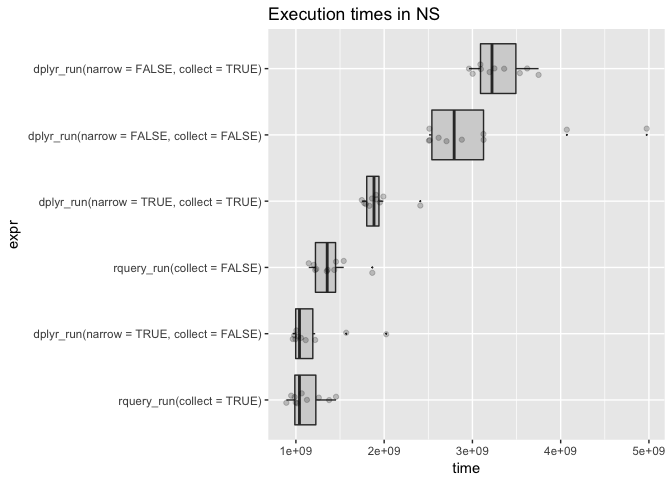
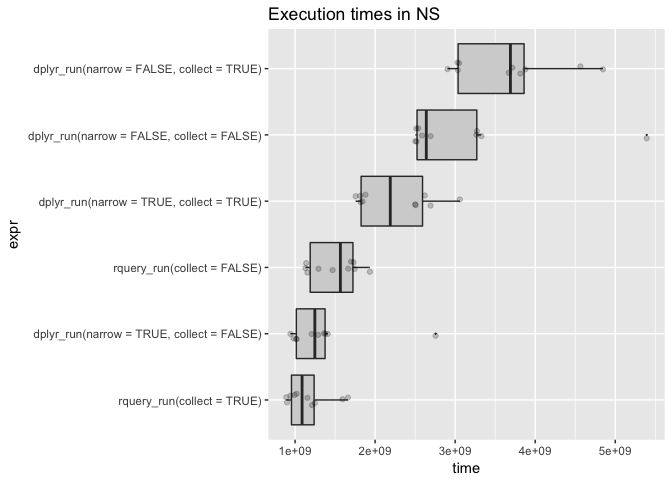
run stand-alone dplyr example (oddly enough need rquery to load the example, dplyr running Spark out of memory).

diff --git a/extras/PerfTest.md b/extras/PerfTest.md
@@ -3,53 +3,32 @@ PerfTest
 2017-12-16
 
 <!-- PerfTest.md is generated from PerfTest.Rmd. Please edit that file -->
-Set up experiment:
-
-``` r
-library("microbenchmark")
-suppressPackageStartupMessages(library("dplyr"))
-library("rquery")
-
-my_db <- sparklyr::spark_connect(version='2.2.0', 
-                                 master = "local")
-
-nSubj <- 100000
-nIrrelCol <- 1000
-dL <- data.frame(subjectID = sort(rep(seq_len(nSubj),2)),
-                 surveyCategory = c(
-                   'withdrawal behavior',
-                   'positive re-framing'),
-                 stringsAsFactors = FALSE)
-dL$assessmentTotal <- sample.int(10, nrow(dL), replace = TRUE)
-for(i in seq_len(nIrrelCol)) {
-  ni <- paste("irrelevantCol", sprintf("%07g", i), sep = "_")
-  dL[[ni]] <- sample(letters, size = nrow(dL), replace = TRUE)
-}
-
-d <- rquery::dbi_copy_to(my_db, 'd',
-                 dL,
-                 temporary = TRUE, 
-                 overwrite = FALSE)
-dL <- NULL
-
-# copy to Parquet to simulate large external data source
-dT <- dplyr::tbl(my_db, d$table_name)
-sparklyr::spark_write_parquet(dT, "perf_tmp", mode = 'overwrite')
-dplyr::db_drop_table(my_db, d$table_name)
-```
-
-    ## [1] 0
-
-``` r
-dT <- NULL
-d <- NULL
-
-# build new refs
-dT <- sparklyr::spark_read_parquet(my_db, 'dparq', "perf_tmp", memory = FALSE)
-d <- rquery::dbi_table(my_db, 'dparq')
-```
-
 Define and demonstrate pipelines:
+
+``` r
+DBI::dbGetQuery(my_db, paste("SELECT COUNT(1) FROM", d$table_name))
+```
+
+    ##   count(1)
+    ## 1    2e+05
+
+``` r
+length(column_names(d))
+```
+
+    ## [1] 1003
+
+``` r
+sparklyr::sdf_nrow(dT)
+```
+
+    ## [1] 2e+05
+
+``` r
+sparklyr::sdf_ncol(dT)
+```
+
+    ## [1] 1003
 
 ``` r
 scale <- 0.237
@@ -115,11 +94,11 @@ head(rquery_run(collect=TRUE))
 
     ##   subjectID           diagnosis probability
     ## 1         1 positive re-framing   0.7207128
-    ## 2         2 positive re-framing   0.8401037
-    ## 3         3 withdrawal behavior   0.8056518
-    ## 4         4 withdrawal behavior   0.5589742
-    ## 5         5 positive re-framing   0.5589742
-    ## 6         6 positive re-framing   0.6706221
+    ## 2         2 withdrawal behavior   0.7207128
+    ## 3         3 withdrawal behavior   0.8694381
+    ## 4         4 withdrawal behavior   0.6163301
+    ## 5         5 withdrawal behavior   0.5589742
+    ## 6         6 withdrawal behavior   0.5000000
 
 ``` r
 dR <- rquery_run(collect=FALSE) 
@@ -128,12 +107,12 @@ DBI::dbGetQuery(my_db,
 ```
 
     ##   subjectID           diagnosis probability
-    ## 1     23266 withdrawal behavior   0.5589742
-    ## 2     23267 withdrawal behavior   0.5000000
-    ## 3     23268 withdrawal behavior   0.5000000
-    ## 4     23269 withdrawal behavior   0.6163301
-    ## 5     23270 withdrawal behavior   0.8694381
-    ## 6     23271 withdrawal behavior   0.6163301
+    ## 1         1 positive re-framing   0.7207128
+    ## 2         2 withdrawal behavior   0.7207128
+    ## 3         3 withdrawal behavior   0.8694381
+    ## 4         4 withdrawal behavior   0.6163301
+    ## 5         5 withdrawal behavior   0.5589742
+    ## 6         6 withdrawal behavior   0.5000000
 
 ``` r
 head(dplyr_run(narrow=FALSE, collect=TRUE))
@@ -143,11 +122,11 @@ head(dplyr_run(narrow=FALSE, collect=TRUE))
     ##   subjectID diagnosis           probability
     ##       <int> <chr>                     <dbl>
     ## 1         1 positive re-framing       0.721
-    ## 2         2 positive re-framing       0.840
-    ## 3         3 withdrawal behavior       0.806
-    ## 4         4 withdrawal behavior       0.559
-    ## 5         5 positive re-framing       0.559
-    ## 6         6 positive re-framing       0.671
+    ## 2         2 withdrawal behavior       0.721
+    ## 3         3 withdrawal behavior       0.869
+    ## 4         4 withdrawal behavior       0.616
+    ## 5         5 withdrawal behavior       0.559
+    ## 6         6 withdrawal behavior       0.500
 
 ``` r
 head(dplyr_run(narrow=FALSE, collect=FALSE))
@@ -159,11 +138,11 @@ head(dplyr_run(narrow=FALSE, collect=FALSE))
     ##   subjectID diagnosis           probability
     ##       <int> <chr>                     <dbl>
     ## 1         1 positive re-framing       0.721
-    ## 2         2 positive re-framing       0.840
-    ## 3         3 withdrawal behavior       0.806
-    ## 4         4 withdrawal behavior       0.559
-    ## 5         5 positive re-framing       0.559
-    ## 6         6 positive re-framing       0.671
+    ## 2         2 withdrawal behavior       0.721
+    ## 3         3 withdrawal behavior       0.869
+    ## 4         4 withdrawal behavior       0.616
+    ## 5         5 withdrawal behavior       0.559
+    ## 6         6 withdrawal behavior       0.500
 
 ``` r
 head(dplyr_run(narrow=TRUE, collect=TRUE))
@@ -173,11 +152,11 @@ head(dplyr_run(narrow=TRUE, collect=TRUE))
     ##   subjectID diagnosis           probability
     ##       <int> <chr>                     <dbl>
     ## 1         1 positive re-framing       0.721
-    ## 2         2 positive re-framing       0.840
-    ## 3         3 withdrawal behavior       0.806
-    ## 4         4 withdrawal behavior       0.559
-    ## 5         5 positive re-framing       0.559
-    ## 6         6 positive re-framing       0.671
+    ## 2         2 withdrawal behavior       0.721
+    ## 3         3 withdrawal behavior       0.869
+    ## 4         4 withdrawal behavior       0.616
+    ## 5         5 withdrawal behavior       0.559
+    ## 6         6 withdrawal behavior       0.500
 
 ``` r
 head(dplyr_run(narrow=TRUE, collect=FALSE))
@@ -189,11 +168,11 @@ head(dplyr_run(narrow=TRUE, collect=FALSE))
     ##   subjectID diagnosis           probability
     ##       <int> <chr>                     <dbl>
     ## 1         1 positive re-framing       0.721
-    ## 2         2 positive re-framing       0.840
-    ## 3         3 withdrawal behavior       0.806
-    ## 4         4 withdrawal behavior       0.559
-    ## 5         5 positive re-framing       0.559
-    ## 6         6 positive re-framing       0.671
+    ## 2         2 withdrawal behavior       0.721
+    ## 3         3 withdrawal behavior       0.869
+    ## 4         4 withdrawal behavior       0.616
+    ## 5         5 withdrawal behavior       0.559
+    ## 6         6 withdrawal behavior       0.500
 
 Get timings:
 
@@ -216,19 +195,19 @@ print(timings)
 
     ## Unit: milliseconds
     ##                                        expr       min        lq     mean
-    ##                  rquery_run(collect = TRUE)  891.6546  984.7117 1111.720
-    ##   dplyr_run(narrow = FALSE, collect = TRUE) 2961.3765 3090.4798 3286.134
-    ##    dplyr_run(narrow = TRUE, collect = TRUE) 1746.8691 1792.5143 1917.907
-    ##                 rquery_run(collect = FALSE) 1145.6630 1218.2469 1380.408
-    ##  dplyr_run(narrow = FALSE, collect = FALSE) 2507.8978 2515.2819 3103.473
-    ##   dplyr_run(narrow = TRUE, collect = FALSE)  964.4651  994.9701 1195.040
+    ##                  rquery_run(collect = TRUE)  890.9246  941.8151 1161.304
+    ##   dplyr_run(narrow = FALSE, collect = TRUE) 2904.4212 3032.7618 3649.638
+    ##    dplyr_run(narrow = TRUE, collect = TRUE) 1756.4779 1818.9597 2248.982
+    ##                 rquery_run(collect = FALSE) 1129.4122 1154.4881 1495.734
+    ##  dplyr_run(narrow = FALSE, collect = FALSE) 2502.9198 2518.5096 3061.362
+    ##   dplyr_run(narrow = TRUE, collect = FALSE)  941.0073 1014.8044 1335.589
     ##    median       uq      max neval
-    ##  1040.346 1259.398 1454.955    10
-    ##  3221.841 3536.910 3749.677    10
-    ##  1884.773 1950.861 2409.531    10
-    ##  1354.741 1454.342 1865.689    10
-    ##  2793.214 3126.409 4974.525    10
-    ##  1040.714 1218.468 2023.165    10
+    ##  1087.370 1246.242 1660.316    10
+    ##  3690.537 3876.728 4846.509    10
+    ##  2189.509 2621.193 3058.776    10
+    ##  1566.103 1731.228 1934.375    10
+    ##  2639.477 3272.162 5392.853    10
+    ##  1247.096 1379.141 2756.205    10
 
 ``` r
 tdf <- as.data.frame(timings)

diff --git a/extras/NarrowEffect.md b/extras/NarrowEffect.md
@@ -1,0 +1,117 @@
+NarrowEffect
+================
+Win-Vector LLC
+12/18/2017
+
+<!-- NarrowEffect.md is generated from NarrowEffect.Rmd. Please edit that file -->
+For some time we have been teaching [`R`](https://journal.r-project.org) users "when working with wide tables on Spark or on databases: narrow to the columns you really want to work with early in your analysis."
+
+This issue arises because ultra-wide tables (200 to 1000 columns) are quite common in big-data analytics projects. Often these are "denormalized marts" that are used to drive many different projects. For any one project only a small subset of the columns may be relevant in a calculation.
+
+The idea behind the advice is: working with fewer columns make for quicker queries.
+
+Some wonder is this really an issue or is it something one can ignore in the hope the downstream query optimizer fixes the problem. In this note we will show the effect is real.
+
+Let's set up our experiment. The data is a larger version of the problem from ["Let’s Have Some Sympathy For The Part-time R User"](http://www.win-vector.com/blog/2017/08/lets-have-some-sympathy-for-the-part-time-r-user/). We have expanded the number of subjects to 10^{5} and added 1000 irrelevant columns to the data store. We define a new function that uses `dplyr` and `Sparklyr` to compute the diagnoses. We can turn on and off if the table is first limited to columns of interest and if the results are brought back to `R`.
+
+``` r
+scale <- 0.237
+
+
+dplyr_run <- function(narrow, collect) {
+  dR <- dT
+  if(narrow) {
+    dR <- dR %>%
+      select(subjectID, surveyCategory, assessmentTotal)
+  }
+  dR <- dR %>%
+    group_by(subjectID) %>%
+    mutate(probability =
+             exp(assessmentTotal * scale)/
+             sum(exp(assessmentTotal * scale))) %>%
+    arrange(probability, surveyCategory) %>%
+    filter(row_number() == n()) %>%
+    ungroup() %>%
+    rename(diagnosis = surveyCategory) %>%
+    select(subjectID, diagnosis, probability) %>%
+    arrange(subjectID)
+  if(collect) {
+    dR <- collect(dR)
+  } else {
+    dR <- compute(dR)
+  }
+  dR
+}
+
+
+head(dplyr_run(narrow=FALSE, collect=FALSE))
+```
+
+    ## # Source: lazy query [?? x 3]
+    ## # Database: spark_connection
+    ## # Ordered by: probability, surveyCategory, subjectID
+    ##   subjectID diagnosis           probability
+    ##       <int> <chr>                     <dbl>
+    ## 1         1 withdrawal behavior       0.840
+    ## 2         2 positive re-framing       0.869
+    ## 3         3 withdrawal behavior       0.500
+    ## 4         4 withdrawal behavior       0.671
+    ## 5         5 withdrawal behavior       0.500
+    ## 6         6 positive re-framing       0.616
+
+We can get timings for variations of the function:
+
+``` r
+library("microbenchmark")
+
+timings <- microbenchmark(dplyr_run(narrow=FALSE, collect=TRUE), 
+                          dplyr_run(narrow=TRUE, collect=TRUE),
+                          dplyr_run(narrow=FALSE, collect=FALSE), 
+                          dplyr_run(narrow=TRUE, collect=FALSE),
+                          times = 10)
+```
+
+And then present the results:
+
+``` r
+print(timings)
+```
+
+    ## Unit: milliseconds
+    ##                                        expr       min        lq     mean
+    ##   dplyr_run(narrow = FALSE, collect = TRUE) 2765.8306 2838.8260 3102.163
+    ##    dplyr_run(narrow = TRUE, collect = TRUE) 1695.0866 1730.7774 1905.877
+    ##  dplyr_run(narrow = FALSE, collect = FALSE) 2224.3104 2259.4446 2455.062
+    ##   dplyr_run(narrow = TRUE, collect = FALSE)  906.2803  939.9202 1223.131
+    ##     median       uq      max neval
+    ##  2884.8669 2943.277 4238.061    10
+    ##  1790.9622 2107.483 2403.142    10
+    ##  2295.3708 2317.765 3855.946    10
+    ##   998.0271 1026.260 2363.670    10
+
+``` r
+tdf <- as.data.frame(timings)
+
+# order the data
+tdf <- tdf %>%
+  group_by(., expr) %>%
+  mutate(., mtime = median(time)) %>%
+  ungroup(.)
+
+tdf$expr <- reorder(tdf$expr, tdf$mtime)
+WVPlots::ScatterBoxPlotH(tdf, "time", "expr",  
+                         pt_alpha=0.2,
+                         title="Execution times in NS")
+```
+
+![](NarrowEffect_files/figure-markdown_github/present-1.png)
+
+Notice the times where we have not by-hand narrowed the table are indeed much slower.
+
+The advice is confirmed: narrow to the columns of interest early in your analysis.
+
+Narrowing to the exact columns used can be difficult: it can involve inspecting an arbitrarily long pipeline for column uses. That is part of why we are developing a new `R` query generator that does just that: [`rquery`](https://winvector.github.io/rquery/).
+
+``` r
+sparklyr::spark_disconnect(my_db)
+```
